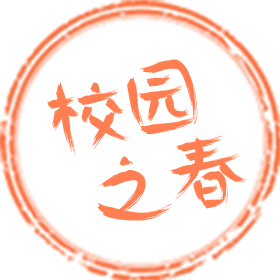
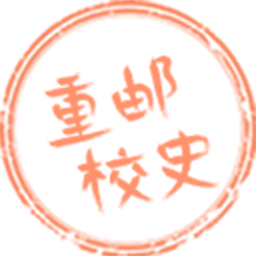
fix: change topic style

diff --git a/public/index.html b/public/index.html
@@ -10,29 +10,30 @@
     <script>
         // const token =
         //   "eyJhbGciOiJIUzI1NiIsInR5cCI6IkpXVCJ9.eyJvcGVuaWQiOiJvdVJDeWppeVkzQVZkZ0w3RTZDQlRHTFpzWTNrIiwiZXhwIjo1MjA5MjQ3NzMxLCJpc3MiOiJteS1wcm9qZWN0In0.JCXT0t0y-fKAYcUmqj4rTR_APeEbsCfCsQ8nKUBDMUk#/";
-        const token = document.location.href.split("token=")[1];
-        if (token && token.length) {
-            localStorage.setItem("openid_token2", token);
-            const {
-                exp,
-                openid
-            } = JSON.parse(atob(token.split(".")[1]));
-            if (!openid) {
-                localStorage.removeItem("openid_token2");
-                window.location.href =
-                    "https://be-prod.redrock.team/magicloop/rushb?b=https://fe-pord.redrock.team/spring-campus/do&scope=oldphp";
-            }
-            localStorage.setItem("exp", exp);
-            localStorage.setItem("openid", openid);
-        }
-        if (!localStorage.getItem("openid_token2") ||
-            (parseInt(localStorage.getItem("exp")) <
-                Math.floor(Date.now() / 1000) + 60 * 60 * 24 * 2 &&
-                !token)
-        ) {
-            window.location.href =
-                "https://be-prod.redrock.team/magicloop/rushb?b=https://fe-prod.redrock.team/spring-campus/do&scope=oldphp";
-        }
+        
+        // const token = document.location.href.split("token=")[1];
+        // if (token && token.length) {
+        //     localStorage.setItem("openid_token2", token);
+        //     const {
+        //         exp,
+        //         openid
+        //     } = JSON.parse(atob(token.split(".")[1]));
+        //     if (!openid) {
+        //         localStorage.removeItem("openid_token2");
+        //         window.location.href =
+        //             "https://be-prod.redrock.team/magicloop/rushb?b=https://fe-pord.redrock.team/spring-campus/do&scope=oldphp";
+        //     }
+        //     localStorage.setItem("exp", exp);
+        //     localStorage.setItem("openid", openid);
+        // }
+        // if (!localStorage.getItem("openid_token2") ||
+        //     (parseInt(localStorage.getItem("exp")) <
+        //         Math.floor(Date.now() / 1000) + 60 * 60 * 24 * 2 &&
+        //         !token)
+        // ) {
+        //     window.location.href =
+        //         "https://be-prod.redrock.team/magicloop/rushb?b=https://fe-prod.redrock.team/spring-campus/do&scope=oldphp";
+        // }
     </script>
     <style>
         .load-box {

diff --git a/src/components/Card.vue b/src/components/Card.vue
@@ -1,13 +1,21 @@
+<!--
+ * @Author: myjdml
+ * @Date: 2021-05-31 14:10:20
+ * @LastEditors: myjdml
+ * @LastEditTime: 2021-06-08 16:06:16
+ * @Description: 
+-->
 <template>
   <div class="card">
     <div class="background">
-      <p class="title">{{ title }}</p>
+      <!-- <p class="title">{{ title }}</p> -->
       <div class="icon"></div>
       <div class="collection-state">
         {{ collectionState ? "已收集" : "未收集" }}
       </div>
       <p class="tip">左右滑动切换卡片</p>
       <div class="content"></div>
+      <p class="save-tip">长按卡片即可保存到相册</p>
     </div>
   </div>
 </template>
@@ -53,8 +61,8 @@ export default {
       width: 110px;
       height: 61px;
       position: absolute;
-      right: 94px;
-      top: 58px;
+      left: 66px;
+      top: 70px;
       background: url(~@assets/images/HistoryCard/circle.png);
       background-size: 100%;
       color: #fc9456;
@@ -85,6 +93,13 @@ export default {
       margin-top: 157px;
       background-color: #fcddbc;
       border-radius: 10px;
+    }
+    .save-tip {
+      color: #FBE6AD;
+      font-size: 28px;
+      position: absolute;
+      bottom: -30px;
+      right: 51px;
     }
   }
 }

diff --git a/src/views/HistoryCard.vue b/src/views/HistoryCard.vue
@@ -14,7 +14,6 @@
       </swiper-slide>
     </swiper>
     <footer>
-      <div class="btn-save" @click="saveImg('https://play-lh.googleusercontent.com/IPPHiII0GMURiVumaN0zT9iJRj8OTCP65xllc8ptBQNAhYhlv67ZRsGGxcIhRHbM5c45')"></div>
       <div class="btn-bac"></div>
     </footer>
   </div>
@@ -115,22 +114,13 @@ export default {
   .card {
   }
 }
-.btn-save {
-  width: 358px;
-  height: 181px;
-  background: url(~@assets/images/HistoryCard/btn-save.png);
-  background-size: 100%;
-  position: absolute;
-  bottom: 25px;
-  left: 34px;
-}
 .btn-bac {
-  width: 322px;
-  height: 184px;
+  width: 381px;
+  height: 178px;
   background: url(~@assets/images/HistoryCard/btn-bac.png);
   background-size: 100%;
   position: absolute;
-  bottom: 27px;
-  right: 35px;
+  bottom: 29px;
+  left: 185px;
 }
 </style>

diff --git a/src/components/HistoryCardHeader.vue b/src/components/HistoryCardHeader.vue
@@ -1,3 +1,10 @@
+<!--
+ * @Author: myjdml
+ * @Date: 2021-05-30 20:21:01
+ * @LastEditors: myjdml
+ * @LastEditTime: 2021-06-08 14:45:43
+ * @Description: 校史卡片板块头部
+-->
 <template>
   <div class="history-card-header">
     <div class="card-list">
@@ -14,7 +21,7 @@
 export default {
   name: "HistoryCardHeader",
   setup() {
-    const cardListInner = ["1982-1991", "1992-2001", "2001-2011", "2011-2021"];
+    const cardListInner = ["板块一", "板块二", "板块三", "板块四"];
     return {
       cardListInner
     };
